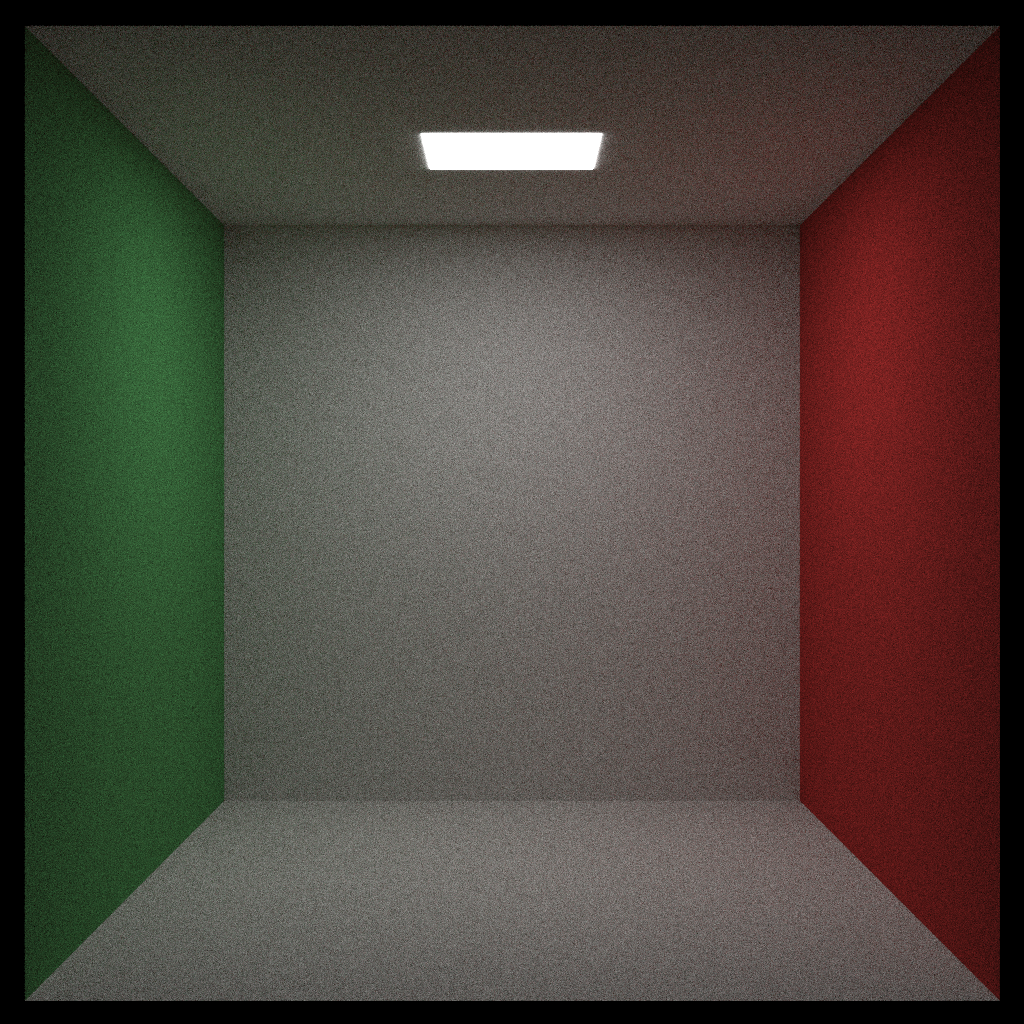
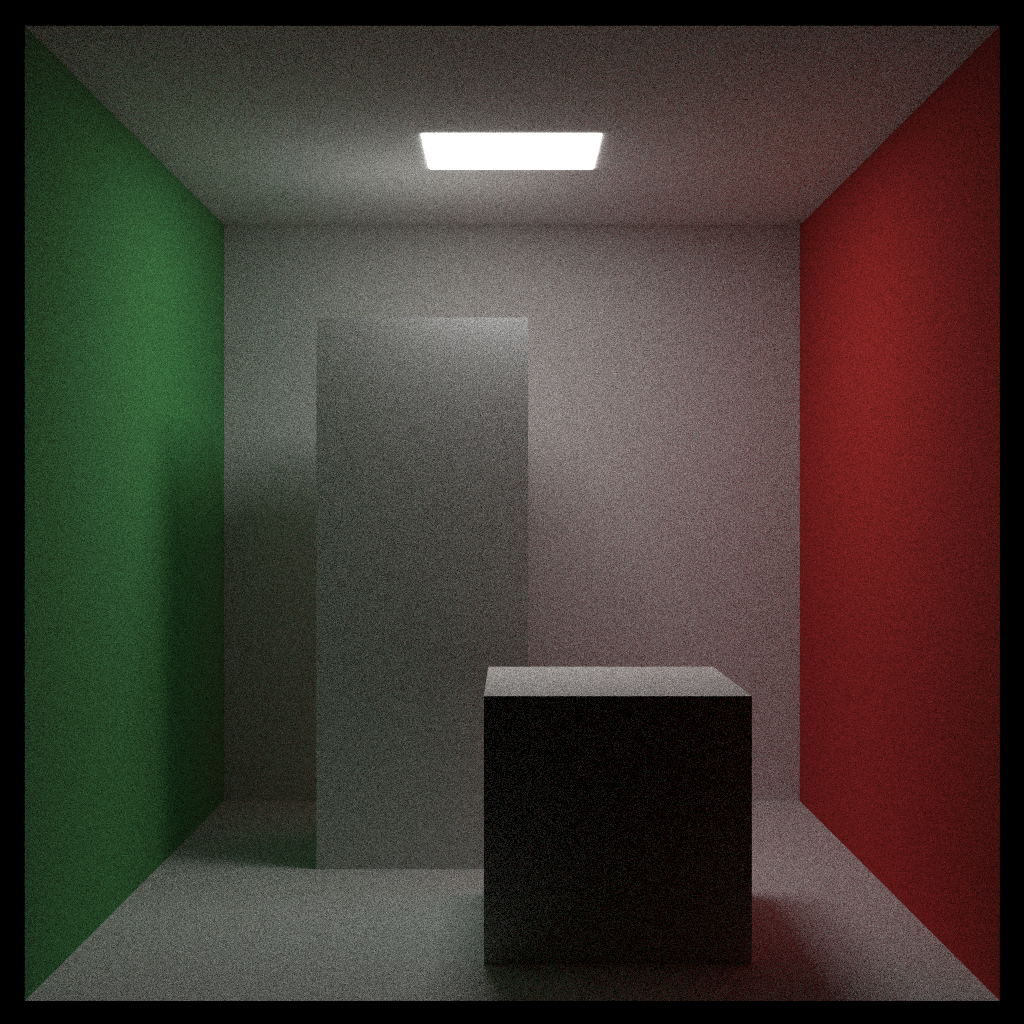
object: add cuboid

diff --git a/src/object/cuboid.rs b/src/object/cuboid.rs
@@ -1,0 +1,70 @@
+use crate::{
+    material::Material,
+    ray::{HitRecord, Ray},
+    vec3::Coord,
+    world::Bvh,
+};
+
+use super::{aabb::Aabb, rect::*, BbObject, Object};
+
+pub struct Cuboid {
+    sides: Bvh,
+}
+
+impl Cuboid {
+    pub fn new<M: Material + 'static, F: Fn(u8) -> M>(p0: Coord, p1: Coord, m: F) -> Self {
+        let mut sides = Vec::<Box<dyn BbObject>>::new();
+        sides.push(Box::new(RectXY::new(
+            (p0.x, p0.y),
+            (p1.x, p1.y),
+            p0.z,
+            m(1),
+        )));
+        sides.push(Box::new(RectXY::new(
+            (p0.x, p0.y),
+            (p1.x, p1.y),
+            p1.z,
+            m(2),
+        )));
+        sides.push(Box::new(RectXZ::new(
+            (p0.x, p0.z),
+            (p1.x, p1.z),
+            p0.y,
+            m(3),
+        )));
+        sides.push(Box::new(RectXZ::new(
+            (p0.x, p0.z),
+            (p1.x, p1.z),
+            p1.y,
+            m(4),
+        )));
+        sides.push(Box::new(RectYZ::new(
+            (p0.y, p0.z),
+            (p1.y, p1.z),
+            p0.x,
+            m(5),
+        )));
+        sides.push(Box::new(RectYZ::new(
+            (p0.y, p0.z),
+            (p1.y, p1.z),
+            p1.x,
+            m(6),
+        )));
+
+        let sides = Bvh::new(sides);
+
+        Self { sides }
+    }
+}
+
+impl Object for Cuboid {
+    fn hit(&self, ray: &Ray, t_min: f64, t_max: f64) -> Option<HitRecord> {
+        self.sides.hit(ray, t_min, t_max)
+    }
+}
+
+impl BbObject for Cuboid {
+    fn bounding_box(&self) -> Aabb {
+        self.sides.bounding_box()
+    }
+}

diff --git a/src/scene/examples/next_week.rs b/src/scene/examples/next_week.rs
@@ -1,6 +1,6 @@
 use crate::{
     material::{Diffuse, DiffuseMethod, Light, Metal},
-    object::{BbObject, RectXY, RectXZ, RectYZ, Sphere},
+    object::{BbObject, Cuboid, RectXY, RectXZ, RectYZ, Sphere},
     scene::{camera::Camera, session::RenderSession, Scene},
     texture::{Checker, PngTexture, Solid},
     vec3::{Coord, RelColor},
@@ -147,6 +147,19 @@ pub fn cornell_box() -> BvhSession {
         (343., 332.),
         554.,
         light,
+    )));
+
+    let side_material_gen =
+        |_n| Diffuse::new(Solid::new(0.73, 0.73, 0.73), DiffuseMethod::Lambertian);
+    list.push(Box::new(Cuboid::new(
+        Coord::new(130., 0., 65.),
+        Coord::new(295., 165., 230.),
+        side_material_gen.clone(),
+    )));
+    list.push(Box::new(Cuboid::new(
+        Coord::new(265., 0., 295.),
+        Coord::new(430., 430., 430.),
+        side_material_gen.clone(),
     )));
 
     return BvhSession::new(

diff --git a/src/object/rect.rs b/src/object/rect.rs
@@ -6,6 +6,8 @@ use crate::{
 
 use super::{Aabb, BbObject, Object};
 
+pub trait Rect: BbObject {}
+
 macro_rules! define_rect {
     ($Name:ident, $x:ident, $y:ident, $z:ident) => {
         pub struct $Name<M: Material> {
@@ -75,6 +77,8 @@ macro_rules! define_rect {
                 Aabb::new(min, max)
             }
         }
+
+        impl<M: Material> Rect for $Name<M> {}
     };
 }
 

diff --git a/src/world/bvh.rs b/src/world/bvh.rs
@@ -57,6 +57,12 @@ impl Object for Bvh {
     }
 }
 
+impl BbObject for Bvh {
+    fn bounding_box(&self) -> Aabb {
+        self.root.bounding_box()
+    }
+}
+
 impl World for Bvh {}
 
 struct BvhNode {

diff --git a/src/object/mod.rs b/src/object/mod.rs
@@ -1,8 +1,10 @@
 mod aabb;
+mod cuboid;
 mod rect;
 mod sphere;
 
 pub use aabb::Aabb;
+pub use cuboid::Cuboid;
 pub use rect::{RectXY, RectXZ, RectYZ};
 pub use sphere::Sphere;
 
